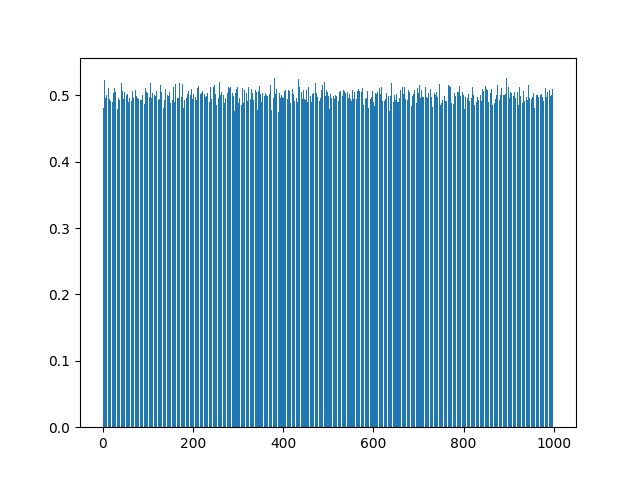
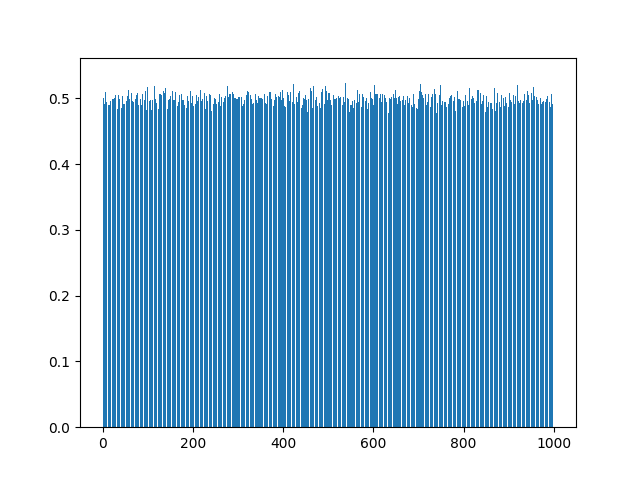
Refactor loading function to dynamically import dependencies and handle missing modules; update matrix analysis image

diff --git a/module-08/ex1/loading.py b/module-08/ex1/loading.py
@@ -1,32 +1,38 @@
+import importlib
+
+
 def loading():
     print("LOADING STATUS: loading programs...\n")
     print("Checking dependencies:")
-    all_imported = False
-    try:
-        import pandas as pd
+    dependencies = [
+        ("pandas", "Data manipulation ready"),
+        ("numpy", "Numerical computing ready"),
+        ("matplotlib", "Visualization ready"),
+        ("matplotlib.pyplot", "Plotting backend ready"),
+    ]
+    imported_modules = {}
+    missing_dependencies = []
 
-        print(
-            f"[OK] {pd.__name__} ({pd.__version__})",
-            "- Data manipulation ready",
-        )
-        import numpy as np
+    for module_name, status_message in dependencies:
+        try:
+            imported_module = importlib.import_module(module_name)
+            imported_modules[module_name] = imported_module
+            display_name = module_name
+            try:
+                display_version = imported_module.__version__
+            except AttributeError:
+                display_version = "n/a"
+            print(
+                f"[OK] {display_name} ({display_version})",
+                f"- {status_message}",
+            )
+        except ImportError:
+            missing_dependencies.append(module_name)
 
-        print(
-            f"[OK] {np.__name__} ({np.__version__})",
-            "- Numerical computing ready",
-        )
-        import matplotlib as mlp
-        from matplotlib import pyplot as plt
-
-        print(
-            f"[OK] {mlp.__name__} ({mlp.__version__})", "- Visualization ready"
-        )
-        all_imported = True
-    except ImportError as e:
-        print(
-            f"[ERROR] Missing dependencies '{e.name}'!",
-        )
-    if not all_imported:
+    if missing_dependencies:
+        print("\n[ERROR] Missing dependencies detected:")
+        for module_name in missing_dependencies:
+            print(f"- {module_name}")
         print(
             "\nPlease install the missing dependencies with pip or poetry:",
         )
@@ -34,6 +40,10 @@ def loading():
         exit(1)
     else:
         print("")
+
+    pd = imported_modules["pandas"]
+    np = imported_modules["numpy"]
+    plt = imported_modules["matplotlib.pyplot"]
 
     sample_matrix_data = np.random.rand(1000, 1000)
     print("Analysing Matrix data...")